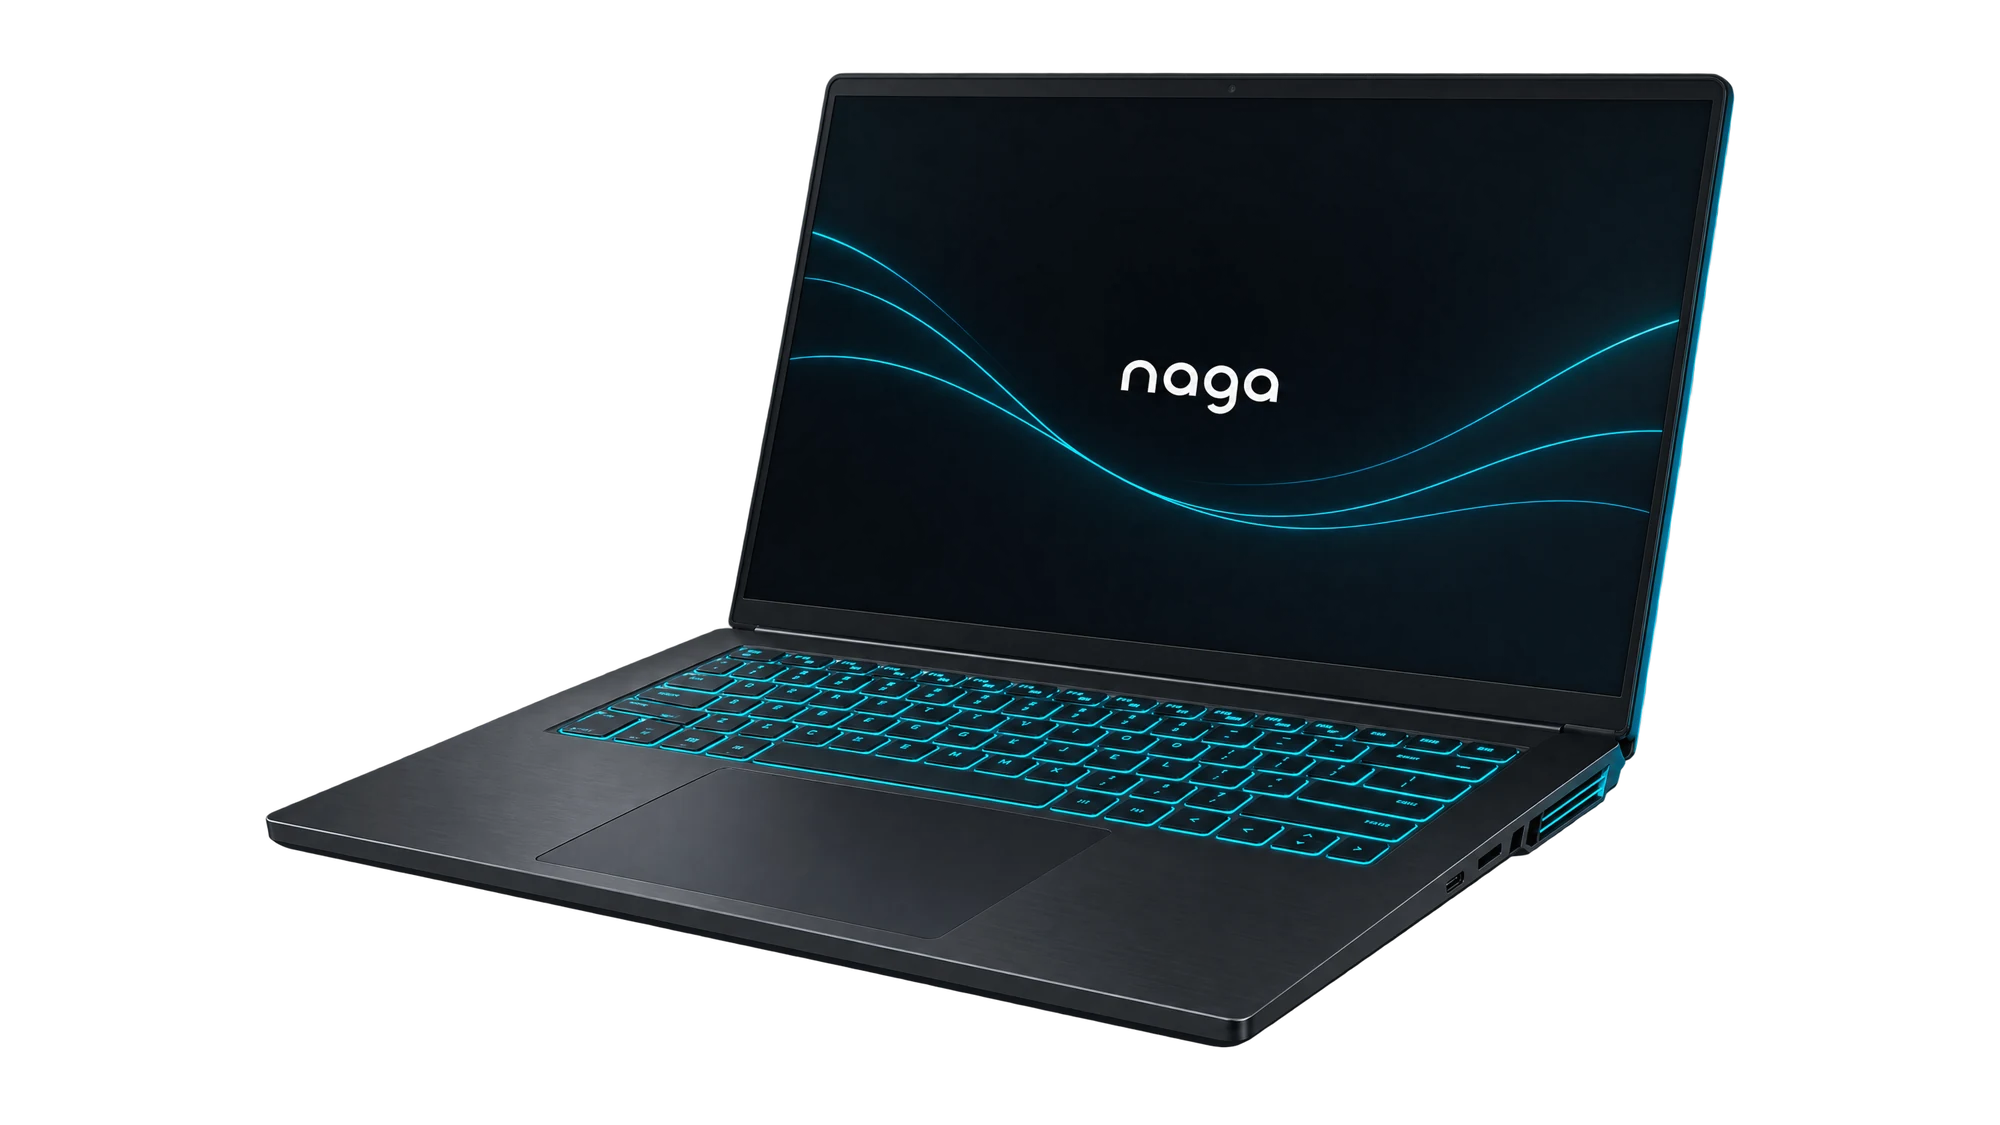
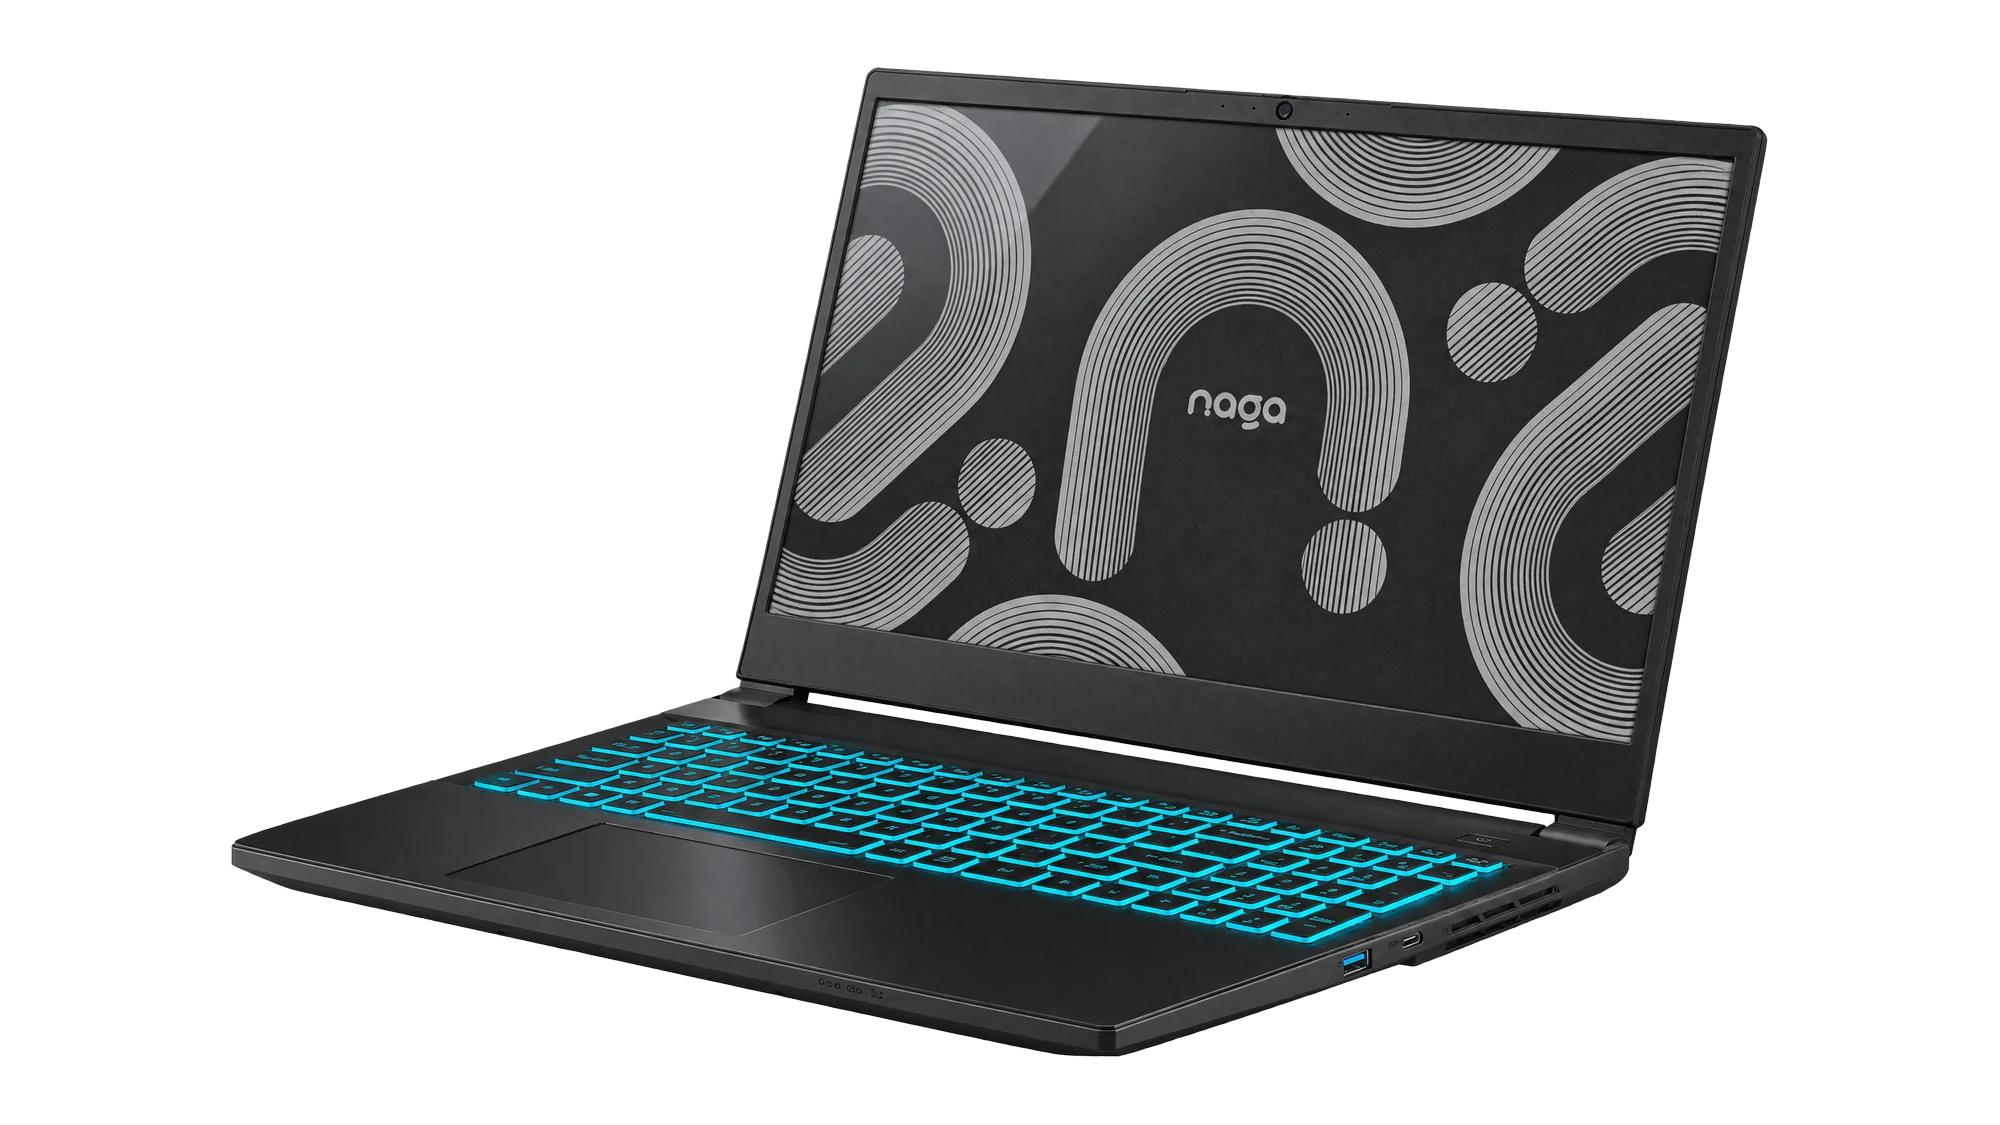
Replace SIPAG I and LAKAN II images with renders of the real chassis
The old images were concept renders that did not match the shipping
laptops (SIPAG I was silver, LAKAN II had the wrong body). The new set
is rendered from the product photos in the Clevo V740TU-2 and V255RNN1
spec sheets, so the chassis, ports and keyboards match, with the Naga
wallpaper on screen and the black wordmark on the lid.

Four shots per laptop, transparent 16:9 WebP at 2000x1125:
- <product>.webp: three-quarter front (homepage tile, hero shot)
- -front, -closed: a new two-up Views gallery under the hero shot
- -lid: rear three-quarter with the lid logo, in the dark chapter

Adds the .views/.gallery/.gview styles and documents the shots in the
README, CLAUDE.md and the design-system skill.

Claude-Session: https://claude.ai/code/session_01W3oBsj7WJ641fiAoP7oLZ2

diff --git a/lakan-ii.html b/lakan-ii.html
@@ -67,6 +67,16 @@
   <div class="pshot-caption"><h2 class="t-h3">Buksan mo. <em>Gigil na siya.</em></h2><p class="muted">RTX 5060 at up to 115W, Core 7 250H, one-zone RGB.</p></div>
 </section>
 
+<!-- VIEWS: renders of the real V255RNN1 chassis (Higgsfield, from the spec-sheet photos), Naga wallpaper on screen, wordmark on the lid. -->
+<section class="chapter views" aria-label="More views of LAKAN II">
+  <div class="wrap">
+    <div class="gallery" data-reveal>
+      <figure class="gview" data-reveal-child><img src="assets/img/products/lakan-ii-front.webp" alt="LAKAN II from the front, keyboard lit cyan, Naga wallpaper on screen" loading="lazy" width="2000" height="1125"><figcaption>Full-size keyboard with numpad, one-zone RGB.</figcaption></figure>
+      <figure class="gview" data-reveal-child><img src="assets/img/products/lakan-ii-closed.webp" alt="LAKAN II closed, naga wordmark on the black lid" loading="lazy" width="2000" height="1125"><figcaption>Matte black lid. HDMI, Mini DisplayPort and LAN on board.</figcaption></figure>
+    </div>
+  </div>
+</section>
+
 <!-- SPECS: bento. The number is the headline. -->
 <section class="chapter tint" id="specs">
   <div class="wrap">
@@ -100,7 +110,7 @@
           <a class="btn btn-ghost" href="index.html#compare">Compare models</a>
         </div>
       </div>
-      <figure class="glow"><img src="assets/img/products/lakan-ii.webp" alt="NAGA LAKAN II gaming laptop" loading="lazy" width="2000" height="1125"></figure>
+      <figure class="glow"><img src="assets/img/products/lakan-ii-lid.webp" alt="LAKAN II from behind, naga wordmark on the lid" loading="lazy" width="2000" height="1125"></figure>
     </div>
     <div class="statrow" data-reveal>
       <div data-reveal-child><div class="t-big">115<span class="accent unit">W</span></div><span class="label">Max GPU power, with Dynamic Boost</span></div>

diff --git a/sipag-i.html b/sipag-i.html
@@ -67,6 +67,16 @@
   <div class="pshot-caption"><h2 class="t-h3">Buksan mo. <em>Simulan na.</em></h2><p class="muted">14-inch Full HD, 1.30 kg, up to 13 hours.</p></div>
 </section>
 
+<!-- VIEWS: renders of the real V740TU-2 chassis (Higgsfield, from the spec-sheet photos), Naga wallpaper on screen, wordmark on the lid. -->
+<section class="chapter views" aria-label="More views of SIPAG I">
+  <div class="wrap">
+    <div class="gallery" data-reveal>
+      <figure class="gview" data-reveal-child><img src="assets/img/products/sipag-i-front.webp" alt="SIPAG I from the front, lid open, Naga wallpaper on screen" loading="lazy" width="2000" height="1125"><figcaption>Thin bezels, 1080p webcam with a privacy shutter.</figcaption></figure>
+      <figure class="gview" data-reveal-child><img src="assets/img/products/sipag-i-closed.webp" alt="SIPAG I closed, naga wordmark on the black lid" loading="lazy" width="2000" height="1125"><figcaption>Metal lid, 16.85 mm closed.</figcaption></figure>
+    </div>
+  </div>
+</section>
+
 <section class="chapter tint" id="specs">
   <div class="wrap">
     <p class="eyebrow">Specs</p>
@@ -95,7 +105,7 @@
           <a class="btn btn-ghost" href="index.html#compare">Compare models</a>
         </div>
       </div>
-      <figure class="glow"><img src="assets/img/products/sipag-i.webp" alt="NAGA SIPAG I productivity laptop" loading="lazy" width="2000" height="1125"></figure>
+      <figure class="glow"><img src="assets/img/products/sipag-i-lid.webp" alt="SIPAG I from behind, naga wordmark on the lid" loading="lazy" width="2000" height="1125"></figure>
     </div>
     <div class="statrow" data-reveal>
       <div data-reveal-child><div class="t-big">13<span class="accent unit">hrs</span></div><span class="label">Battery life, manufacturer test</span></div>

diff --git a/assets/css/naga.css b/assets/css/naga.css
@@ -264,6 +264,14 @@ a { color: inherit; }
 .pshot-caption h2 em { font-style: normal; color: var(--cyan-link); }
 .pshot-caption p { font-size: .95rem; }
 
+/* Views: two more angles of the product, under the hero shot. */
+.views { padding-top: 0; }
+.gallery { display: grid; grid-template-columns: 1fr 1fr; gap: 14px; margin-top: 40px; }
+.gview { margin: 0; background: var(--paper-2); border-radius: var(--radius); padding: clamp(16px, 3vw, 32px) clamp(16px, 3vw, 32px) 20px; display: flex; flex-direction: column; gap: 12px; }
+.gview img { width: 100%; height: auto; display: block; }
+.gview figcaption { font-size: .85rem; color: var(--ink-2); }
+@media (max-width: 720px) { .gallery { grid-template-columns: 1fr; } }
+
 /* --------------------------------------------------------------------------
    Bento
    -------------------------------------------------------------------------- */

diff --git a/README.md b/README.md
@@ -43,7 +43,7 @@ To update: change the version in `package.json`, then `npm install && npm run ve
 
 LAKAN II carries confirmed specs. SIPAG I and DIWA are still placeholders written to make the pages read like finished product pages, marked `PLACEHOLDER SPECS` in the HTML.
 
-- **SIPAG I** (black restock, mostly confirmed): built on the Clevo V740TU-2 (spec sheet v3.1, 2026/05) per the Naga order. Intel Core Ultra 5 125U, 14" Full HD 60Hz panel (45% NTSC), Intel Graphics, two DDR5-5600 SO-DIMM slots (up to 64GB), one M.2 2280 PCIe Gen4 SSD slot, white-backlit keyboard, Intel AX211 Wi-Fi 6E + Bluetooth, Gigabit LAN, USB-C with DisplayPort and power delivery, 2 × USB-A, HDMI, microSD, 2MP FHD camera with shutter, 60Wh battery (up to 13 h per Clevo), 1.30 kg, 315.6 × 226 × 16.85 mm, metal lid and base, 180° hinge, MIL-STD-810H. Still to confirm: the RAM and SSD capacities Naga installs (the unit ships without them or an OS), the price (₱49,990 is a placeholder), whether the panel is FHD or FHD+ (the order says FHD, the sheet lists 1920×1200), and black product imagery (the current render is silver)
+- **SIPAG I** (black restock, mostly confirmed): built on the Clevo V740TU-2 (spec sheet v3.1, 2026/05) per the Naga order. Intel Core Ultra 5 125U, 14" Full HD 60Hz panel (45% NTSC), Intel Graphics, two DDR5-5600 SO-DIMM slots (up to 64GB), one M.2 2280 PCIe Gen4 SSD slot, white-backlit keyboard, Intel AX211 Wi-Fi 6E + Bluetooth, Gigabit LAN, USB-C with DisplayPort and power delivery, 2 × USB-A, HDMI, microSD, 2MP FHD camera with shutter, 60Wh battery (up to 13 h per Clevo), 1.30 kg, 315.6 × 226 × 16.85 mm, metal lid and base, 180° hinge, MIL-STD-810H. Still to confirm: the RAM and SSD capacities Naga installs (the unit ships without them or an OS), the price (₱49,990 is a placeholder), whether the panel is FHD or FHD+ (the order says FHD, the sheet lists 1920×1200)
 - **DIWA**: Ryzen AI 9 HX 370 (50 TOPS), 64GB LPDDR5X, 2TB, 1.1 L, 28 dB, 65W, ₱59,990
 - **LAKAN II** (confirmed): built on the Clevo V255RNN1 (spec sheet v3.0, 2025/11). Intel Core 7 250H, 16GB DDR5-5600 dual channel (two SO-DIMM, up to 64GB), RTX 5060 Laptop up to 115W with 8GB GDDR7 and Dynamic Boost, 512GB PCIe Gen4 SSD (second M.2 slot free), one-zone RGB full-size keyboard with numpad, Intel AX211 Wi-Fi 6E + Bluetooth, Gigabit LAN, HDMI + Mini DisplayPort 1.4 + USB-C, 53.35Wh battery (up to 7.5 h on integrated graphics per Clevo), 180W charger, 2.25 kg, 361 × 247 × 24.5 mm. ₱89,900 with the Naga Karga backpack. Still to confirm: panel resolution (QHD or FHD) and refresh rate, which USB-C option ships, webcam (HD or FHD), and backpack photos
 - Homepage "why Naga" claims: 24-hour burn-in, 0% up to 12 months, free insured shipping, 7-day replacement
@@ -52,4 +52,14 @@ LAKAN II carries confirmed specs. SIPAG I and DIWA are still placeholders writte
 
 ## Product images
 
-`assets/img/products/lakan-ii.webp`, `sipag-i.webp` and `diwa.webp` are AI-generated concept renders (GPT Image 2.5 via Higgsfield, transparent background, cleaned and reframed to 16:9 at 2000×1125). They are design intent, not photographs of shipping hardware. To replace one with a real product photo, export a transparent 16:9 WebP at the same path; the homepage tile, the product page shot and the dark chapter all read from it.
+All files are transparent 16:9 WebP at 2000×1125.
+
+| File | Shot | Used in |
+|---|---|---|
+| `sipag-i.webp`, `lakan-ii.webp` | three-quarter front, lid open | homepage tile, product page hero shot (LAKAN also in the homepage performance chapter) |
+| `sipag-i-front.webp`, `lakan-ii-front.webp` | straight-on front | product page Views gallery |
+| `sipag-i-closed.webp`, `lakan-ii-closed.webp` | closed, lid with the wordmark | product page Views gallery |
+| `sipag-i-lid.webp`, `lakan-ii-lid.webp` | rear three-quarter, lid with the wordmark | product page dark chapter |
+| `diwa.webp` | three-quarter | homepage tile, DIWA page |
+
+The SIPAG I and LAKAN II images are GPT Image 2.6 renders made on Higgsfield from the product photos in the Clevo spec sheets (V740TU-2 and V255RNN1), so the chassis, ports and keyboard match the shipping units. Added on top: the Naga wallpaper on the screen (cyan for SIPAG I, dark for LAKAN II), the black "naga" wordmark as a gloss-on-matte logo on the lid, and a cyan keyboard backlight on LAKAN II. They are renders, not photographs; check the lid logo treatment with the product team. The DIWA image is still an AI concept render. To replace any of them, export a transparent 16:9 WebP at the same path.

diff --git a/.claude/skills/naga-design-system/SKILL.md b/.claude/skills/naga-design-system/SKILL.md
@@ -40,6 +40,7 @@ Never add a color. If something needs emphasis on dark, use `--cyan`; on white, 
 - **Entrance** `.entrance`: the carved-wall film, full height, scrolls away with copy drifting up. Homepage only.
 - **Product tile** `.ptile`: eyebrow, headline, tagline, two chevron links, product image in `figure.render`. Stack: one full tile, then `.tile-pair`.
 - **Product hero** `.phero` then **product shot** `.pshot`: a rounded 16:9 image frame (`figure.pshot-frame[data-hero-shot]`) with a two-line caption. No 3D; the product is photographed or rendered offline.
+- **Views** `section.chapter.views` right after the product shot: a two-up `.gallery` of `figure.gview` cards (tinted, rounded) holding the `-front` and `-closed` shots with a one-line caption. One column under 720px.
 - **Bento** `.bento` with `.tile.w2/.w3`: numbers as headlines, one `.dark-tile`, one `.cyan-tile` per grid.
 - **Performance chapter** `.chapter.dark`: `.perf` two-column (copy + `figure.glow` holding the product image over a cyan radial glow), `.statrow` of three big numbers, `.dgrid` of hover-lit `.dcard`s.
 - **Buttons**: `.btn-fill` (cyan pill, one per screen), `.btn-ghost` (outlined pill). Reading links use `.link` (chevron).
@@ -54,7 +55,7 @@ Never add a color. If something needs emphasis on dark, use `--cyan`; on white, 
 
 ## Product imagery
 
-- Files live at `assets/img/products/<product>.webp` (transparent 16:9, 2000×1125) and are referenced from the homepage tile, the product page shot and the dark chapter. The current set are AI concept renders made to one brief: matte black (LAKAN II), silver-white (SIPAG I), black with a cyan light bar (DIWA), three-quarter view from slightly above, soft key light upper left, cyan rim light, soft contact shadow, lowercase "naga" wordmark only. Any new render or photo must match that brief so the three read as one family.
+- Files live at `assets/img/products/<product>.webp` (transparent 16:9, 2000×1125) and are referenced from the homepage tile, the product page shot and the dark chapter. SIPAG I and LAKAN II are renders of the real Clevo chassis (made from the spec-sheet photos): black, Naga wallpaper on screen (cyan for SIPAG I, dark for LAKAN II), black "naga" wordmark in gloss on the matte lid, no floor or shadow. Each laptop has four shots: `<product>.webp` (three-quarter front, the main image), `-front`, `-closed` and `-lid` (rear three-quarter, used in the dark chapter). DIWA is an AI concept render (black, cyan light bar). New shots must match: same chassis, studio light, transparent background, wordmark reading upright to the camera.
 - Shoot or render at 16:9, 1600×900 or larger, product centered, on transparent or pure white (light chapters) and reuse the same file on black (the glow sits behind it). A single three-quarter view with the lid open reads best at tile size.
 
 ## Adding a product page

diff --git a/CLAUDE.md b/CLAUDE.md
@@ -38,11 +38,11 @@ To bump a library: edit the version in `package.json`, run `npm install` and `np
 
 - Resting state is visible. GSAP `from` tweens do the hiding; CSS never sets `opacity: 0`.
 - Respect `prefers-reduced-motion`: Lenis, scrubs and word reveals are skipped in `naga.js`.
-- No 3D. Product visuals are transparent 16:9 WebP renders in `assets/img/products/` (AI concept renders until real photos exist). The product page shot (`[data-hero-shot]`) settles from 1.08× to 1× on scroll; nothing else moves the product.
+- No 3D. Product visuals are transparent 16:9 WebP renders in `assets/img/products/` (SIPAG I and LAKAN II: renders of the real Clevo chassis; DIWA: AI concept render). The product page shot (`[data-hero-shot]`) settles from 1.08× to 1× on scroll; nothing else moves the product.
 
 ## Content status
 
-LAKAN II specs and price are confirmed (Clevo V255RNN1 base, ₱89,900 with the Naga Karga backpack; panel resolution and refresh rate still to confirm). SIPAG I specs are confirmed for the black restock (Clevo V740TU-2) except RAM and SSD capacity and price; DIWA specs and prices are placeholders marked with `PLACEHOLDER SPECS` comments. Confirm with the product team before launch. Buy and Find a store buttons link to `#` until the store exists. The three product images are AI concept renders, not photos of shipping units; swap the files at the same paths when photography exists.
+LAKAN II specs and price are confirmed (Clevo V255RNN1 base, ₱89,900 with the Naga Karga backpack; panel resolution and refresh rate still to confirm). SIPAG I specs are confirmed for the black restock (Clevo V740TU-2) except RAM and SSD capacity and price; DIWA specs and prices are placeholders marked with `PLACEHOLDER SPECS` comments. Confirm with the product team before launch. Buy and Find a store buttons link to `#` until the store exists. SIPAG I and LAKAN II images are Higgsfield renders built from the Clevo spec-sheet photos (real chassis, Naga wallpaper on screen, wordmark on the lid); the DIWA image is still an AI concept render. Swap files at the same paths when photography exists.
 
 ## Verifying
 
